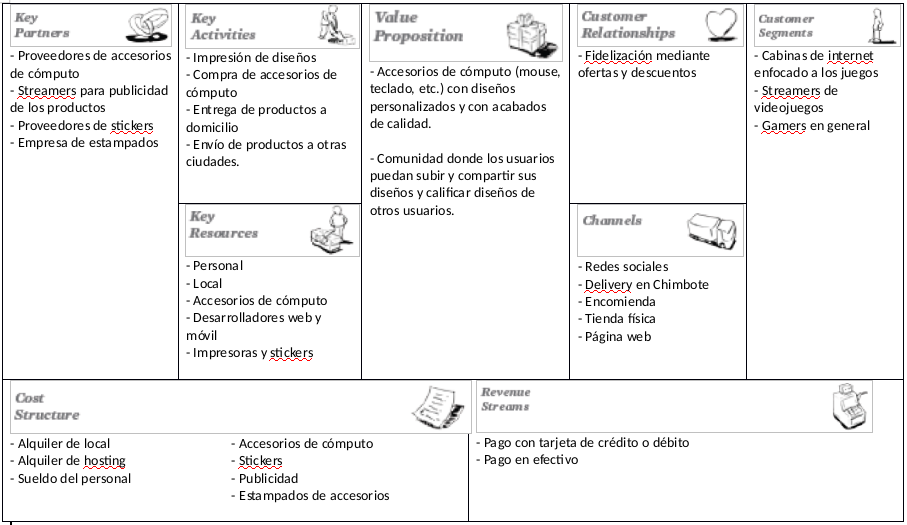
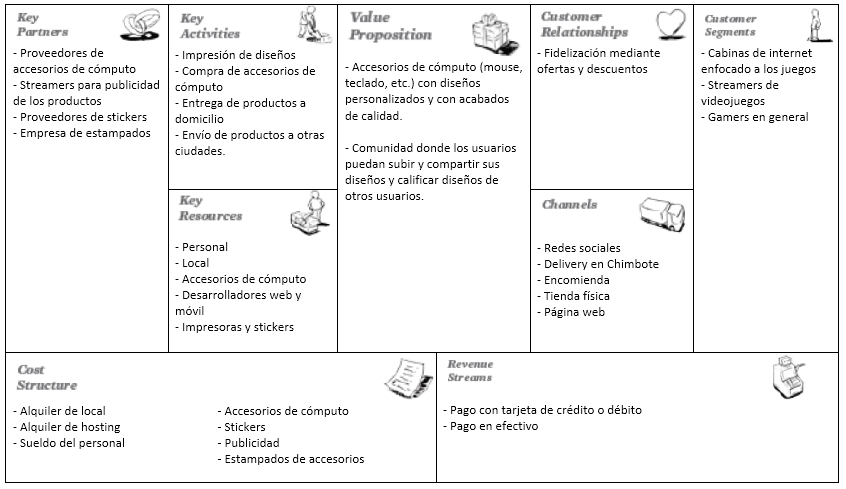
actualizar canvas

Changed region(s): [[0.0, 0.0, 1.0, 1.0], [0.2459, 0.8282, 0.4303, 0.9509], [0.5225, 0.8282, 0.7683, 0.8896]]

diff --git a/css/canvas.css b/css/canvas.css
@@ -7,7 +7,7 @@
 }
 
 #canvas img {
-    width: 600px;
+    width: 700px;
     height: auto;
     margin: 10px;
 }

diff --git a/css/destacados_responsive.css b/css/destacados_responsive.css
@@ -60,7 +60,7 @@
 }
 
 .producto img {
-    max-width: 100%;
+    width: 190px;
 }
 
 

diff --git a/css/articulos.css b/css/articulos.css
@@ -51,5 +51,5 @@
 }
 
 .producto img {
-    max-width: 100%;
+    width: 190px;
 }
